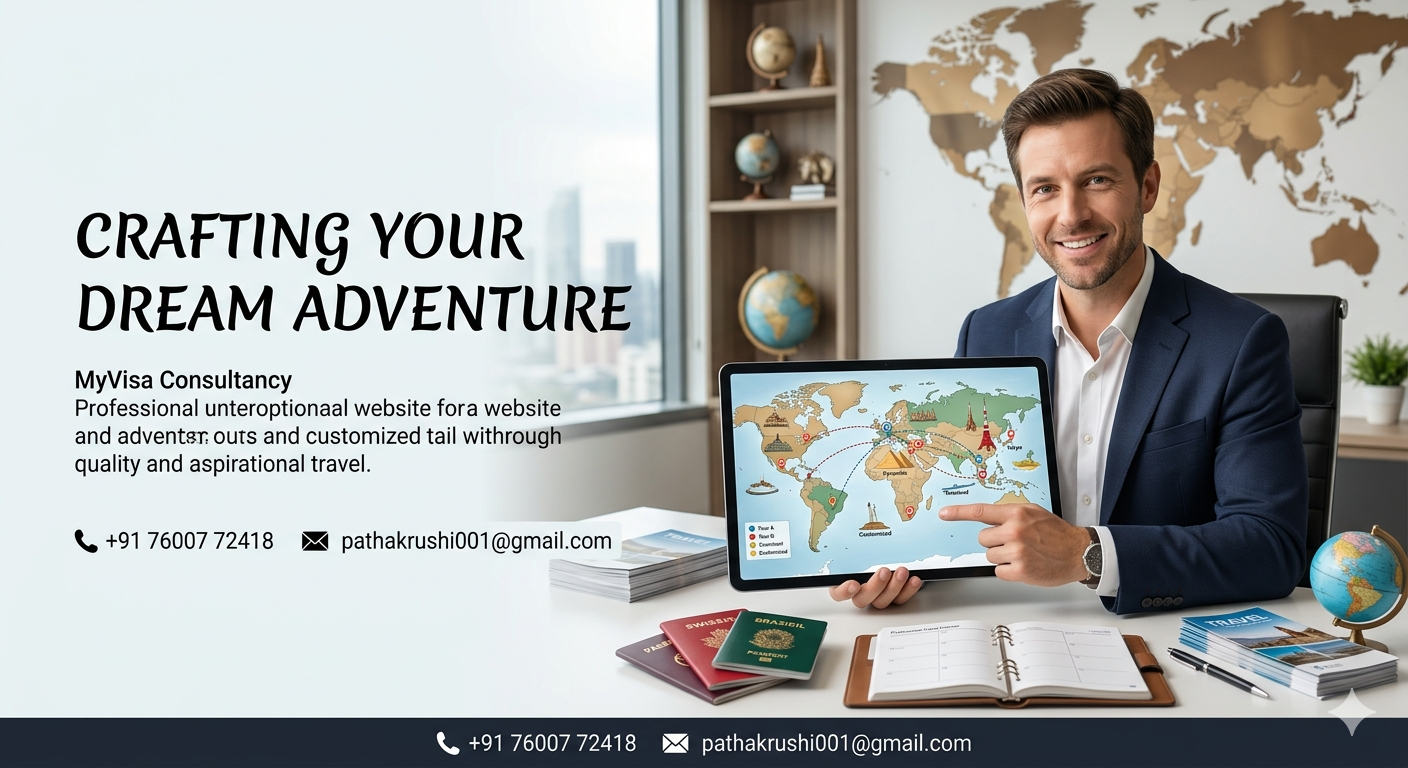
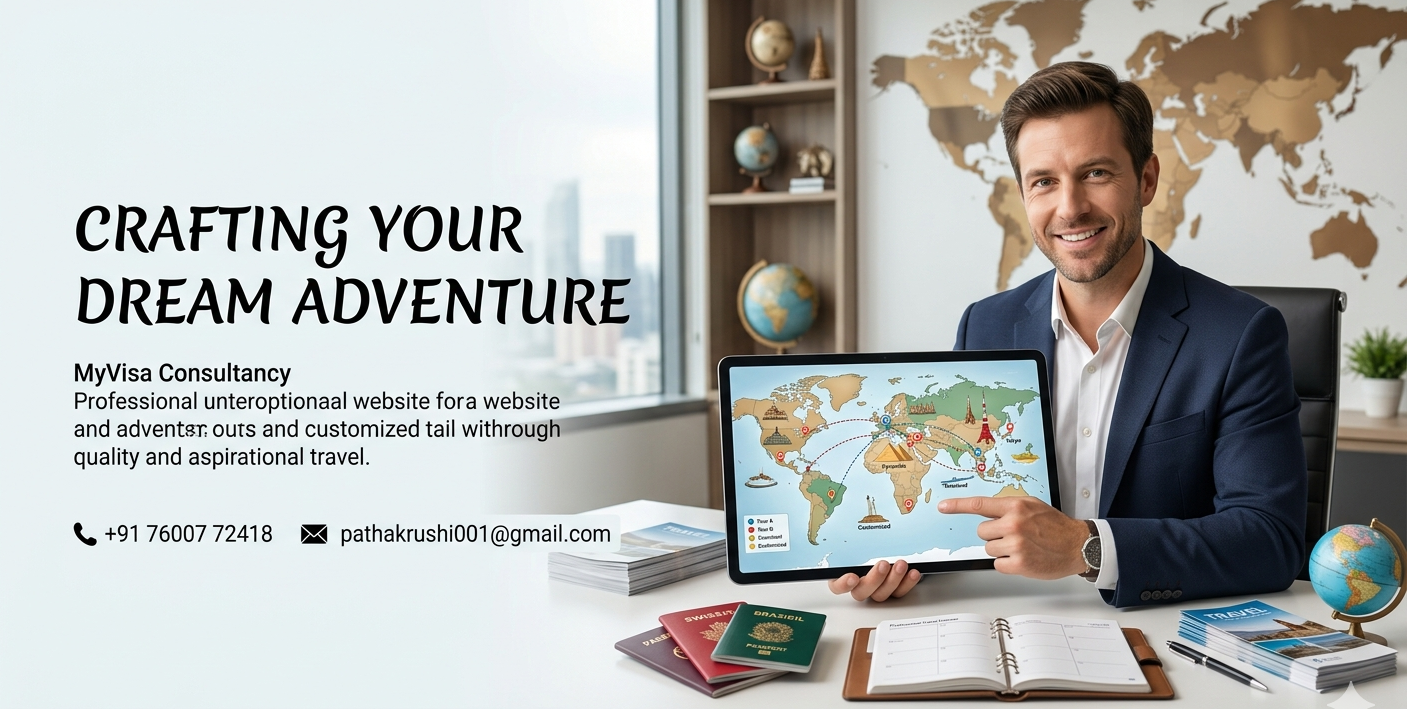
updated

diff --git a/index.html b/index.html
@@ -255,9 +255,6 @@
             <img src="assets/assets/images/hero5.png" alt="Visa Solutions">
           </div>
           <div class="hero-slide">
-            <img src="assets/assets/images/hero6.png" alt="Visa Solutions">
-          </div>
-          <div class="hero-slide">
             <img src="assets/assets/images/hero (7).png" alt="Visa Solutions">
           </div>
           <div class="hero-slide">
@@ -271,7 +268,7 @@
             <span class="dot" data-index="4"></span>
             <span class="dot" data-index="5"></span>
             <span class="dot" data-index="6"></span>
-            <span class="dot" data-index="7"></span>
+
           </div>
         </div>
       </div>
